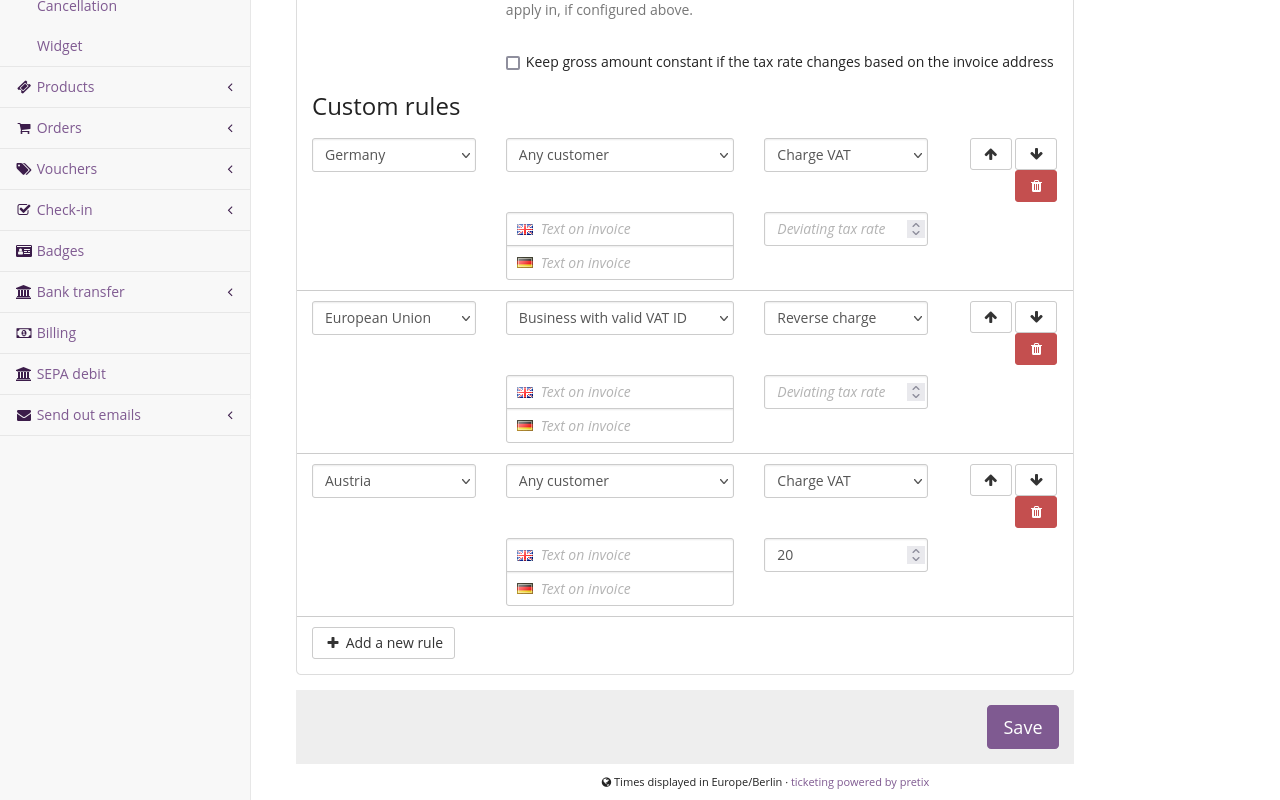
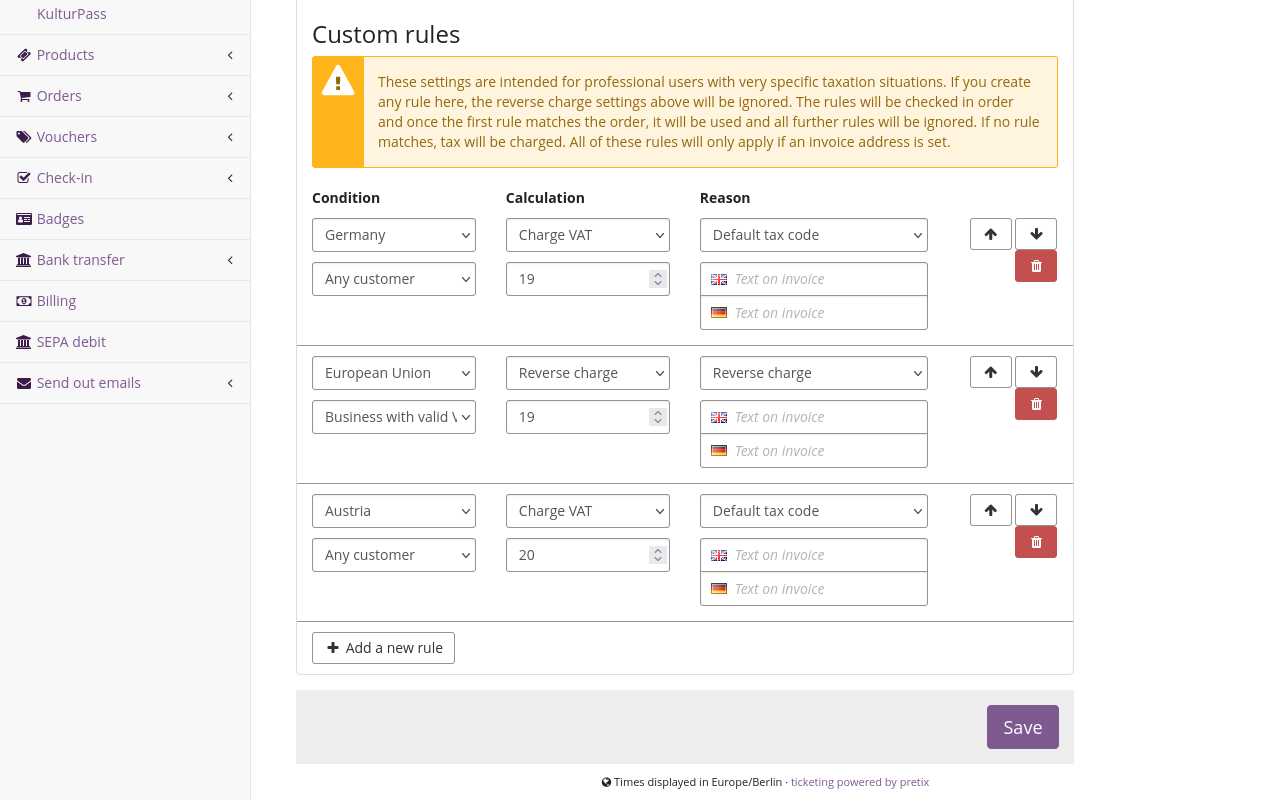
Update screenshot and article to reflect recent UI changes

diff --git a/docs/guides/taxes.md b/docs/guides/taxes.md
@@ -74,12 +74,19 @@ Click the :btn:Save: button to confirm.
 In order to set custom tax rules, navigate to :navpath:Your event → :fa3-wrench: Settings → Tax rules:. 
 Click the tax rule for which you want to set custom rules, switch to the :btn:Advanced: tab and click the :btn-icon:fa3-plus: Add a new rule: button. 
 
-In the first dropdown menu, select the country or territory where the custom rule will apply or select "Any country". 
+Under "Condition", in the first dropdown menu, select the country or territory where the custom rule will apply or select "Any country". 
 In the second menu, select the type of customer (individual, business, or business with valid VAT ID) or select "Any customer". 
 
-In the third dropdown menu, select the action to be taken under the specified conditions (country and customer). 
-You may select "Charge VAT" and then specify a "Deviating tax rate" in the input field below. 
-You may also select a different option and leave the field empty. 
+Under "Calculation", select the action to be taken under the specified conditions (country and customer). 
+If you want to charge a tax rate specific to the conditions you defined, select "Charge VAT" and enter the tax rate in the input field below. 
+If you want to implement a reverse charge rule for the condition, select "Reverse charge" and enter the reverse charge tax rate in the input field. 
+
+The other options allow you to charge no tax, to require manual approval, or to forbid sales altogether for the condition you defined. 
+You may leave the input field below empty if there is no tax rate or reverse charge tax rate to be charged. 
+
+Under "Reason", you can select a legal reason for the tax rule you put into place. 
+If the drop-down menu does not offer your specific reason, select a more general option. 
+You can use the "Text on invoice" fields to add an explanation for the taxes charged to your customers' invoices. 
 
 When a customer places an order, pretix will check the custom rules from top to bottom. 
 The first rule matching the order will be used to decide if and how VAT will be charged. 
@@ -87,19 +94,22 @@ You can move the rules up or down the priority list using the arrow buttons :btn
 
 ![Tax rule dialog. The 'Advanced' tab is open, displaying four custom rules, as described in the paragraph below.](../assets/screens/tax/custom-rules.png "Example for custom rules" )
 
-For illustrative purposes, let us assume an event hosted by a company in Germany which is eligible for EU reverse charge. 
-Such a company might first create a rule for "Germany", applying to "Any customer" the action "Charge VAT". 
-It might then create a rule for "European Union", applying to "Business with valid VAT ID" the action "Reverse charge". 
+For illustrative purposes, assume an event is being hosted by a company in Germany which is eligible for EU reverse charge. 
+Such a company might first create a rule for "Germany", applying to "Any customer" the calculation "Charge VAT". 
+The tax rate would be 19.00% and the reason would be "Default tax code". 
+The company might then create a rule for "European Union", applying to "Business with valid VAT ID" the calculation "Reverse charge" with a tax rate of 19.00% and the reason "Reverse charge". 
 
-It might then create a rule for Austria, applying to "Any customer" the action "Charge VAT" with the deviating tax rate set to the VAT rate of the country in question. 
+It might then create a rule for Austria, applying to "Any customer" the calculation "Charge VAT" with the tax rate set to the VAT rate of the country in question. 
 It might then create the same rule for every single member state in the EU from Belgium to Sweden, always setting the appropriate deviating tax rate. 
-Finally, the company might create a rule for "Any country", applying to "Any customer" the action "Charge VAT". 
+Finally, the company might create a rule for "Any country", applying to "Any customer" the calculation "Charge VAT". 
 
 In this example, if a company located in Austria with a valid VAT ID places an order, this matches both the second and the third rule. 
 However, since custom rules are always checked top to bottom and only the first matching rule is applied, only the only the second rule from our list (Austria → "Any customer" → "Charge VAT") will be applied to the transaction. 
+
 The order in which rules are arranged here also ensures that no business from an EU country outside of Germany will be charged VAT on their transaction, as long as they provide a valid VAT ID while placing their order. 
 
-The example case described above is for illustrating the use of the software only; it does not constitute legal advice. 
+!!! Note 
+    The example case described above is for illustrating the use of the software only; it does not constitute legal advice. 
 
 ### EU reverse charge
 
